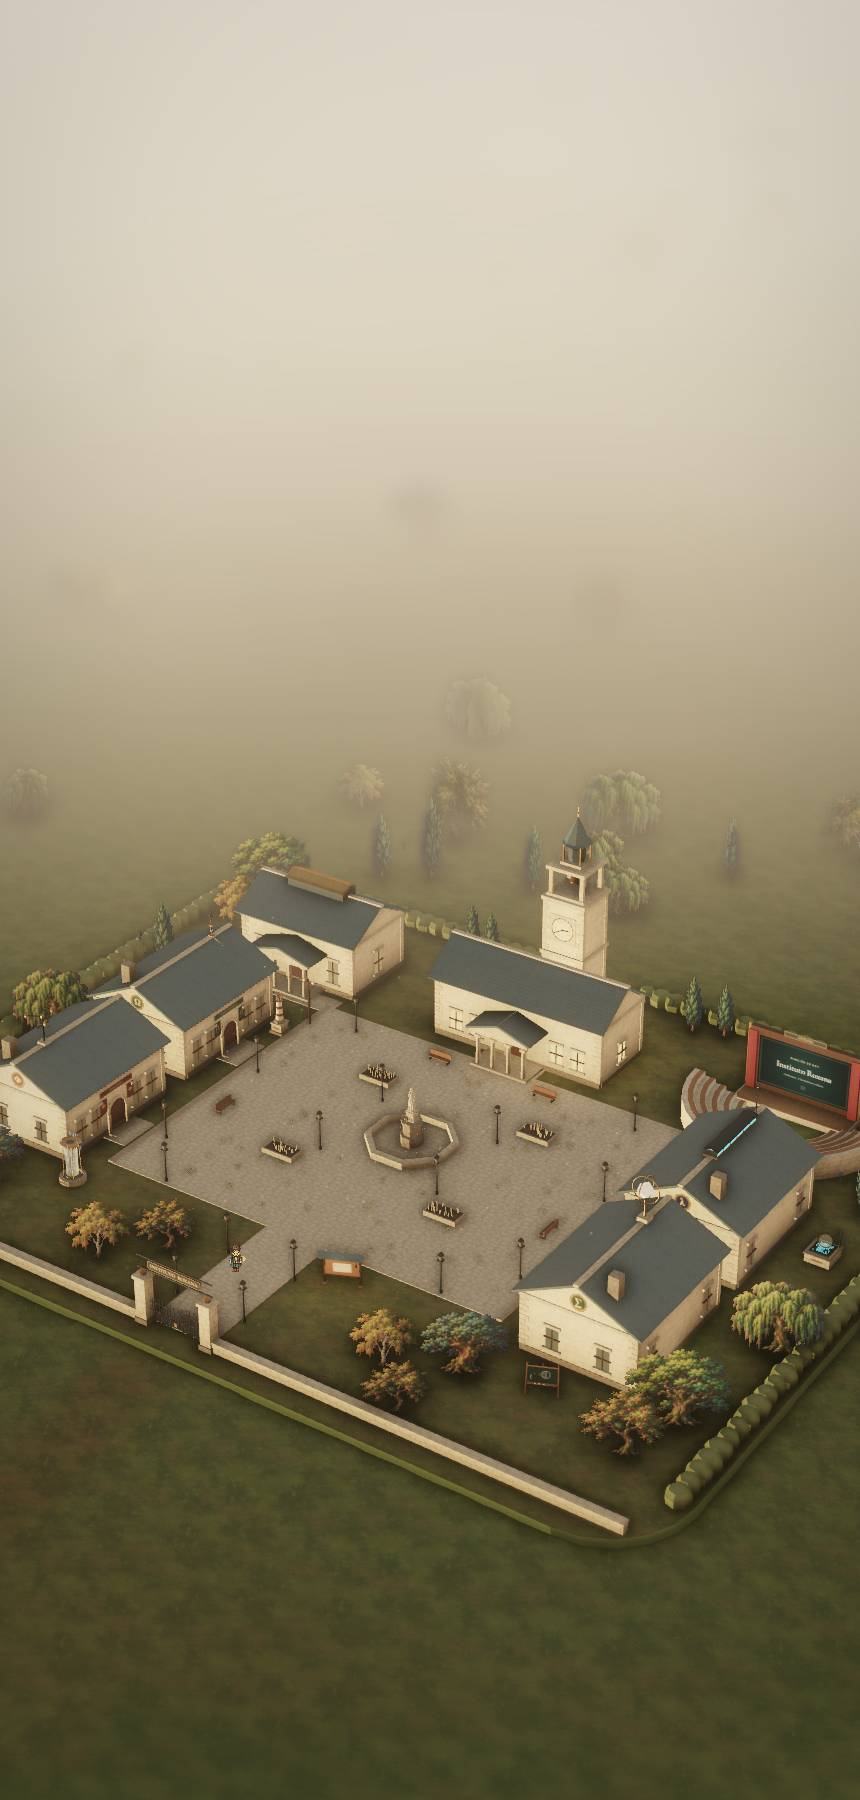
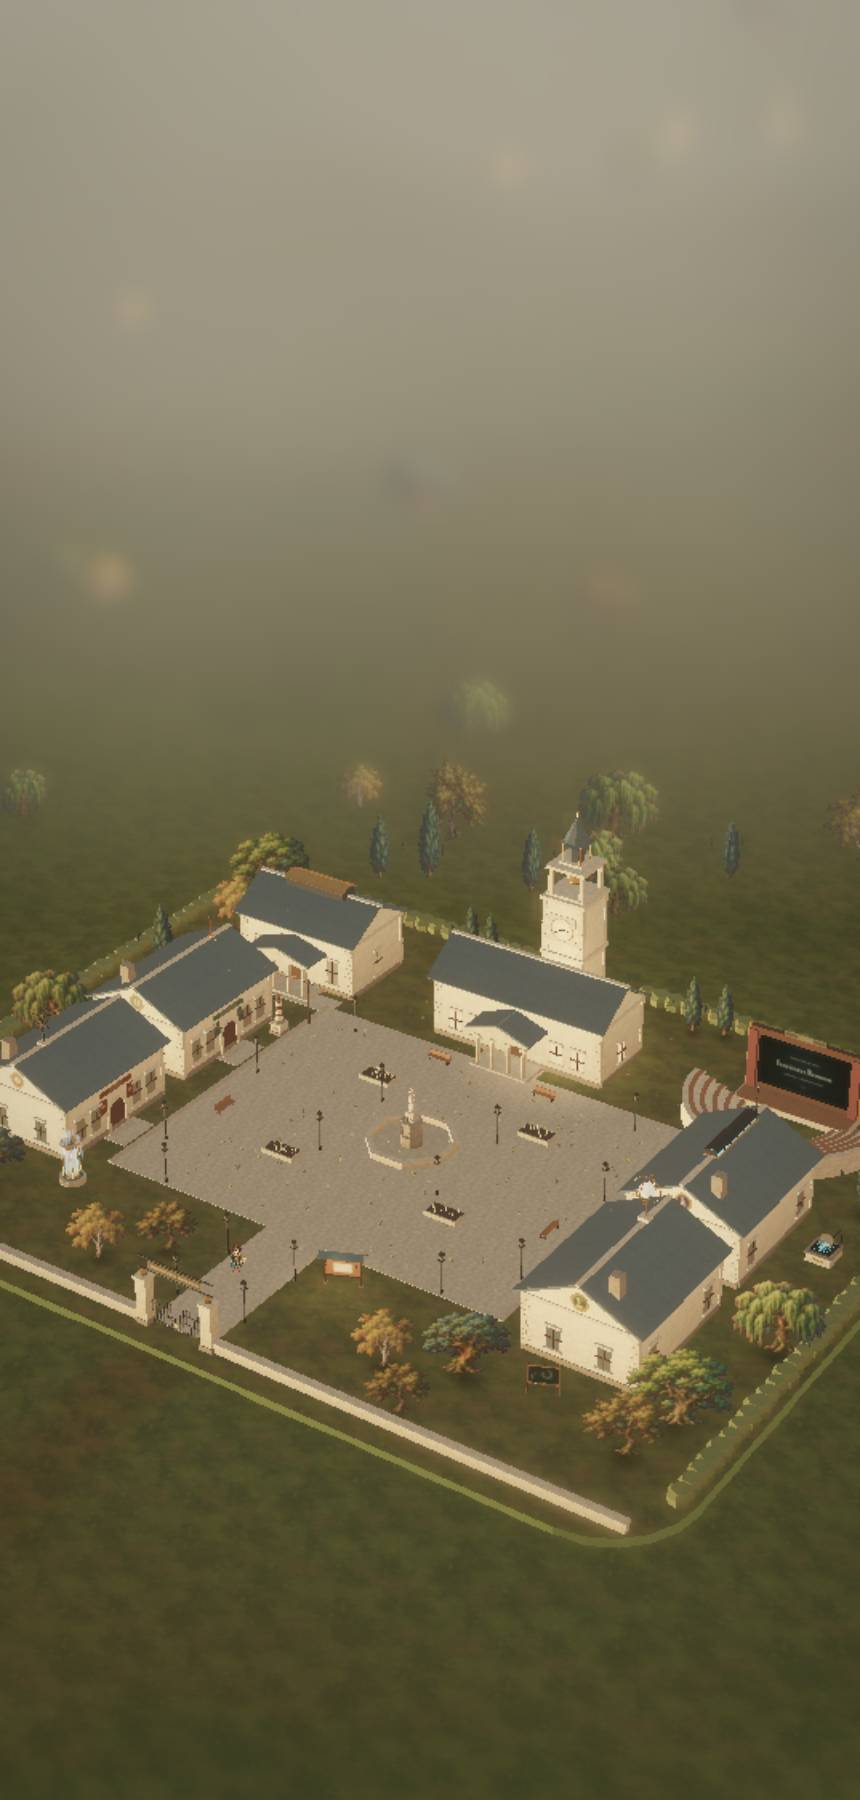
Home: jerarquía del plano maestro — Roxana como foco, Anfiteatro discreto, bruma azulada y noche legible
La estatua recibe una luz de acento; la pantalla del Anfiteatro baja a media luz fuera de su
sala; la bruma de día tira al azul y el fondo deja de ser una pared; la noche deja leer los
techos y, restaurado el patio, lo enciende. Antes/después en evidence/c09.

diff --git a/experiments/playcanvas/src/escuela/diorama.js b/experiments/playcanvas/src/escuela/diorama.js
@@ -28,7 +28,7 @@ export const HOURS={
   manana:{label:'Mañana',sun:[52,-30,'#fff1d6',1.75],ambient:'#a9b8c2',zenith:'#5f8fbf',horizon:'#d6e6ea',below:'#87a6b4',lamps:.15,windows:.1,grade:[1.02,1,1,1.01,1.02],cloud:'#ffffff',env:.85},
   tarde:{label:'Tarde',sun:[30,-58,'#ffd49a',1.9],ambient:'#a59c9e',zenith:'#5a7fae',horizon:'#f6c894',below:'#c79c80',lamps:.55,windows:.45,grade:[1.04,1.05,1,.9,1],cloud:'#fff0dc',env:.8},
   // Moonlight: enough to read roofs and paths; the lit windows still lead.
-  noche:{label:'Noche',sun:[46,40,'#a9bcff',.62],ambient:'#4a5a82',zenith:'#070d20',horizon:'#2a3a5e',below:'#10182c',lamps:1,windows:1,grade:[.85,.86,.92,1.12,.95],cloud:'#8795b8',env:.45},
+  noche:{label:'Noche',sun:[52,28,'#bccbff',1.05],ambient:'#6a7ca6',zenith:'#070d20',horizon:'#2a3a5e',below:'#10182c',lamps:1,windows:1,grade:[.85,.88,.94,1.1,1.06],cloud:'#8795b8',env:.6},
 };
 export function hourFor(date=new Date()){const h=date.getHours();return h>=7&&h<15?'manana':h>=15&&h<20?'tarde':'noche';}
 
@@ -39,7 +39,7 @@ const MATERIALS={
   slate:{map:'slate',color:'#5f737b'},roofPhysica:{map:'slate',color:'#a0624c'},roofBitland:{map:'slate',color:'#5f6c92'},roofArithmos:{map:'slate',color:'#6d8559'},
   wood:{map:'wood',color:'#a4744c'},woodDark:{map:'wood',color:'#5c3f2c'},floor:{map:'wood',color:'#b88b62'},hedge:{map:'grass',color:'#6a8a4a'},
   bronze:{map:'copper',color:'#c79c5c',metal:.8,gloss:.55},copper:{map:'copper',color:'#c47f4c',metal:.7,gloss:.5},iron:{color:'#393e43',metal:.55,gloss:.45},
-  paint:{color:'#ffffff'},curtain:{map:'wood',contrast:.25,color:'#8a2f31'},lampShade:{color:'#3f7a55',emissive:'#78d69a',glow:.15},
+  paint:{color:'#ffffff'},curtain:{map:'wood',contrast:.25,color:'#76403a'},lampShade:{color:'#3f7a55',emissive:'#78d69a',glow:.15},
   gold:{map:'copper',contrast:.2,color:'#ffd873',metal:.55,gloss:.72,emissive:'#b0801c',glow:.55},
   dim:{map:'stone',contrast:.2,color:'#8c8a86',opacity:.55},
   lampGlass:{color:'#6c6556',emissive:'#ffd08a',glow:0},lanternGlass:{color:'#57636a',emissive:'#fff0c4',glow:0,gloss:.8},
@@ -530,6 +530,8 @@ export class SchoolDiorama {
     }
   }
   buildLights(){
+    // A soft key light on Roxana's statue: the narrative anchor of the patio reads first in the overview.
+    const spot=(name,pos,at,color,range,inner,outer)=>{const e=new Entity(name);e.addComponent('light',{type:'spot',color:col(color),intensity:0,range,innerConeAngle:inner,outerConeAngle:outer,castShadows:false});e.setPosition(...pos);e.lookAt(...at);e.rotateLocal(-90,0,0);this.root.addChild(e);return e;};
     const omni=(name,pos,color,range,parent=this.root)=>{const e=new Entity(name);e.addComponent('light',{type:'omni',color:col(color),intensity:0,range,castShadows:false});e.setPosition(...pos);parent.addChild(e);return e;};
     this.lampLights=LAMPS.map(([x,z])=>omni('Farol',[x,3.7,z],'#ffcf8a',11));
     this.rooms={
@@ -539,6 +541,7 @@ export class SchoolDiorama {
       lantern:omni('Linterna',[TOWER.x,TOWER.shaft+4.5,TOWER.z],'#fff0c4',62),
       screen:omni('Pantalla',[AMPHI.x,3.5,AMPHI.z+2.5],'#a8c8d8',14),
       statue:omni('Farol de Roxana',[FOUNTAIN.x,3.3,FOUNTAIN.z+1.1],'#ffd08a',8),
+      statueKey:spot('Luz sobre Roxana',[FOUNTAIN.x+4,12,FOUNTAIN.z+8],[FOUNTAIN.x,4.6,FOUNTAIN.z],'#ffe9c4',24,10,22),
       board:omni('Luz de la cartelera',[NOTICE_BOARD.x,3.1,NOTICE_BOARD.z+1.2],'#ffd9a0',7),
       faro:omni('Faro en miniatura',[ARTIFACTS.ohmdal.x,4.1,ARTIFACTS.ohmdal.z],'#ffe7ad',5),
     };
@@ -712,7 +715,7 @@ export class SchoolDiorama {
     this.camera.lookAt(tx,ty,tz);
     const want=d;if(Math.abs(this.frame.dof.focusDistance-want)>.2){this.frame.dof.focusDistance=want;this.frame.update();}
     // Haze behind the school in the overview; close-ups keep it far so near stone is not washed out.
-    const fog=this.app.scene.fog;fog.start=Math.max(d+18,150);fog.end=Math.max(d*1.9+120,420);
+    const fog=this.app.scene.fog;fog.start=Math.max(d+40,170);fog.end=Math.max(d*2.6+260,620);
   }
 
   // ── Hour and stage ──────────────────────────────────────────────────────────
@@ -729,7 +732,8 @@ export class SchoolDiorama {
     this.paintSky(c('zenith'),c('horizon'),c('below'));
     this.cloudMaterial.emissive=c('cloud');this.cloudMaterial.update();
     // Haze toward the horizon colour turns the far hills blue and the night ones into silhouettes.
-    const night=lerp(a.lamps,b.lamps,t);this.app.scene.fog.color=mixColor(c('horizon'),col('#fff8ec'),.42*(1-clamp((night-.6)/.4,0,1)));
+    // Aerial perspective: by day the haze leans to the sky's blue so the far hills read as layers, not a wall.
+    const night=lerp(a.lamps,b.lamps,t),day=1-clamp((night-.6)/.4,0,1);this.app.scene.fog.color=mixColor(mixColor(mixColor(c('horizon'),c('zenith'),.38*day),col('#f4f2ee'),.2*day),col('#33456e'),.45*(1-day));
     this.skyColors={zenith:c('zenith'),horizon:c('horizon')};
     if(m.t>=1){this.hourMix=null;this.buildEnvironment(b);}this.stageDirty=true;
   }
@@ -783,6 +787,8 @@ export class SchoolDiorama {
     const banners=this.parts.get('banners');if(banners){banners.enabled=L(6)>.01;banners.setLocalScale(1,Math.max(.01,ease(L(6))),1);banners.setLocalPosition(0,4.85*(1-ease(L(6))),0);}
     // 8 beacon_network: the bell swings (see update). 9 beacon_lens: the lantern.
     const lantern=this.materials.lanternGlass;lantern.emissiveIntensity=L(8)*(1.6+night*3);lantern.update();
+    // The Sala de Trofeos' skylight glows with its trophies, softly: it must not burn into a white bar.
+    {const sk=this.materials['lanternGlass@trofeos'];if(sk){if(!sk.darkGlass){sk.darkGlass=true;sk.diffuse=col('#2c3439');sk.gloss=.25;sk.metalness=0;}sk.emissiveIntensity=(.02+earned/12*.08)*(.4+night*.6);sk.update();}}
     this.rooms.lantern.light.intensity=L(8)*(.6+night*1.4);// Additive blending ignores opacity: the beam's strength lives in its emissive and it is off by day.
     const beam=L(8)*clamp((night-.75)/.25,0,1)*(1-(this.focusFade||0));this.beam.m.emissiveIntensity=beam*.12;this.beam.m.update();this.beam.pivot.enabled=beam>.01;
     this.fx.lantern.particlesystem.enabled=L(8)>.5;
@@ -802,7 +808,10 @@ export class SchoolDiorama {
     const city=this.materials['city@programacion'];if(!this.entrySeq){city.emissiveIntensity=.3+night*.8;city.update();}
     const world=this.materials['world@fisica'];if(!this.entrySeq){world.emissiveIntensity=1.2+night*.9;world.update();}
     const visor=this.materials['visor@programacion'];if(!this.entrySeq){visor.emissiveIntensity=.35+night*.5;visor.update();}
-    this.materials.screen.emissiveIntensity=.55+night*.55;this.materials.screen.update();this.rooms.screen.light.intensity=.2+night*.9;
+    // The Anfiteatro's screen glows fully only when its room is open; from the overview it stays a quiet frame.
+    const screenOn=this.focusId==='anfiteatro'||this.video?1:.38;
+    this.materials.screen.emissiveIntensity=(.55+night*.55)*screenOn;this.materials.screen.update();this.rooms.screen.light.intensity=(.2+night*.9)*screenOn;
+    this.rooms.statueKey.light.intensity=(2.4+night*1.8)*(1-(this.focusFade||0)*.6);
     this.materials.lampShade.emissiveIntensity=.2+night*1.2;this.materials.lampShade.update();
     this.fx.dust.particlesystem.enabled=!this.reducedMotion&&night<.9;
     // Trophies.

diff --git a/experiments/playcanvas/src/escuela/school.js b/experiments/playcanvas/src/escuela/school.js
@@ -442,7 +442,7 @@ function trofeosDetails(k){
   k.box('trofeos:colonnade','stone',{x:b.x,z:pz+.1,w:7.2,d:3,y:3.9,h:.4,jitter:.02});
   k.gable('trofeos:colonnade','slate',{x:b.x,z:pz+.1,w:7.4,d:3,y:4.3,rise:1.1,alongZ:true,ends:'stone',overhang:.2});
   // Skylight lantern on the ridge.
-  k.box(`${id}:roof`,'lanternGlass',{x:b.x,z:b.z,w:7,d:2.2,y:b.h+b.rise-.2,h:.9,jitter:0});
+  k.box(`${id}:roof`,'lanternGlass@trofeos',{x:b.x,z:b.z,w:7,d:2.2,y:b.h+b.rise-.2,h:.9,jitter:0});
   k.gable(`${id}:roof`,'bronze',{x:b.x,z:b.z,w:7.3,d:2.5,y:b.h+b.rise+.7,rise:.6,overhang:.05,thick:.08});
   // One tiered stand per world under its banner; trophies are separate parts.
   const I='trofeos:interior',back=b.z-b.d/2+T;

diff --git a/experiments/playcanvas/src/escuela/landscape.js b/experiments/playcanvas/src/escuela/landscape.js
@@ -29,7 +29,8 @@ export function heightAt(x,z){
   // The road keeps to calmer ground so its ribbon lies flat on the land.
   const calm=z>30?1-smooth(12,3,Math.abs(x-roadX(z)))*.85:1;
   const roll=(fbm(x/70,z/70)-.45)*7*smooth(8,70,d)*calm;
-  const hills=Math.pow(fbm(x/150+11,z/150-4),1.6)*90*smooth(170,430,r)+smooth(380,700,r)*40;
+  // Hills rise behind the school within reach of the master camera, so the haze can layer them.
+  const hills=Math.pow(fbm(x/120+11,z/120-4),1.4)*70*smooth(105,300,r)+smooth(260,560,r)*55;
   return bank+roll+hills;
 }
 // Fields: large irregular plots of wheat, meadow, fallow and pasture tones.

diff --git a/docs/production/home/STATE.md b/docs/production/home/STATE.md
@@ -1,7 +1,7 @@
 # Home · Instituto Roxana — estado de producción
 
 Estado canónico del loop de la home (brief: `ROXANA_HOME_AAA_LOOP.md`, recibido el 2026-10-05).
-Estado: **EN CURSO** · ciclo 8 cerrado (2026-10-06). No es candidato todavía (ver `REVIEW-c07.md`). Loop de sesión: cron `04a38e45` cada minuto.
+Estado: **EN CURSO** · ciclo 9 cerrado (2026-10-06). No es candidato todavía (ver `REVIEW-c07.md`). Loop de sesión: cron `04a38e45` cada minuto.
 
 ## Qué es la home real
 
@@ -180,10 +180,24 @@ NO VERIFICADO: FPS absolutos con la GPU libre; bfcache real; pérdida de context
 Limitaciones: bancos e instrumentos del taller siguen siendo cajas; los otros tres interiores sin cambios; la luz de
 las lámparas colgantes es emisiva (sin luz puntual propia); FPS sin medir con la GPU libre.
 
+## Ciclo 9 (2026-10-06) — jerarquía del plano maestro (antes/después en `evidence/c09/`)
+
+- Pantalla del Anfiteatro a media luz desde la vista general (deja de ser lo más saturado del cuadro) y telón menos
+  rojo; brilla entera con la sala abierta o un video.
+- Luz de acento cálida sobre la estatua de Roxana: de noche es el foco del patio.
+- Bruma más lejana y azulada de día (perspectiva aérea): el fondo deja de ser una pared beige; árboles lejanos con
+  suelo debajo. Colinas acercadas, pero **siguen fuera del encuadre** (la cámara maestra mira hacia abajo y el
+  horizonte queda arriba del cuadro): no se forzó.
+- Noche: más luna y luz ambiente; en etapas bajas se leen las formas; en la etapa 10 los faroles restaurados
+  encienden el patio (la noche cuenta el progreso real). Lucernario de Trofeos con material propio y emisivo tenue:
+  ya no satura, pero sigue claro (parcial).
+- Imágenes del primer pintado regeneradas. QA: `npm test` 97/97; interacción 26/26; teclado 14/14.
+
 ## Siguiente acción exacta
 
-1. Plano maestro (revisión #14–16): bajar el emisivo de la pantalla del Anfiteatro en vista general, acento de luz
-   cálida sobre la estatua de Roxana, colinas visibles bajo la bruma (niebla por altura o colinas más cercanas) y
-   noche legible (rebote de ventanas, luna). Comparar antes/después en el mismo encuadre y hora.
-2. Bancos de Electrónica con instrumentos reconocibles (galvanómetro con dial, soldador, bobinas) en lugar de cajas.
-3. `webglcontextlost` → versión ligera; medir con la GPU libre.
+1. Bancos de Electrónica con instrumentos reconocibles (galvanómetro con dial, soldador, bobinas de cobre) en
+   lugar de cajas; revisar en el acercamiento de la sala abierta.
+2. `webglcontextlost` → versión ligera, con prueba (`WEBGL_lose_context`).
+3. Primer pintado coherente con la hora (imagen de noche) cuando el visitante llega de noche.
+4. Medición con la GPU libre; si no hay bloqueos críticos nuevos, segunda revisión independiente y evaluar
+   CANDIDATO_PARA_REVISION.

diff --git a/docs/production/home/REVIEW-c07.md b/docs/production/home/REVIEW-c07.md
@@ -21,7 +21,7 @@ Veredicto del revisor: **no corresponde CANDIDATO_PARA_REVISION todavía** (2 cr
 | 11 | MEDIO | Carreras: atajos durante gesto, gesto que pisa la sala elegida, farolito tardío, `focus(null)` con panel | **Corregido** (atajos en reposo y con modificadores excluidos, `openRoom` cancela gesto, farolito recalcula, recorrido respeta panel). Vista previa de entrada sin cancelación: abierto |
 | 12 | MEDIO | Foco en controles ocultos, canvas sin foco visible, tarjeta sin Escape | **Corregido**: `inert` en portada/panel, `:focus-visible` en canvas, Escape cierra la tarjeta |
 | 13 | MEDIO | Rótulos sobre el edificio equivocado | **Corregido**: pin sobre el hastial de la puerta |
-| 14–18 | MEDIO | Jerarquía del plano maestro, fondo sin colinas, noche, primer pintado por hora/etapa, acercamientos sobreexpuestos, Bitland/Faro/lucernario de Trofeos | Abiertos (arte) |
+| 14–18 | MEDIO | Jerarquía del plano maestro, fondo sin colinas, noche, primer pintado por hora/etapa, acercamientos sobreexpuestos, Bitland/Faro/lucernario de Trofeos | **Parcial (c08–c09)**: pantalla del Anfiteatro atenuada en vista general, luz de acento en la estatua, bruma azulada y colinas más cercanas (siguen fuera del encuadre: la cámara maestra no ve el horizonte), noche más legible, acercamientos con menos exposición. Abiertos: primer pintado por hora/etapa, lucernario de Trofeos todavía claro, Bitland/Faro de detalle |
 | 19 | MEDIO | Selector de etapas abierto (spoilers); promesa de entrada de Bitland | **Corregido**: selector sólo en dev o `?qa`; texto «boceto… puede cambiar» |
 | 20 | MEDIO | QA sobredeclarado | Parcial: casos no cubiertos listados como NO VERIFICADO en STATE |
 | 21 | MEDIO | Descubribilidad táctil de artefactos | Abierto |

diff --git a/docs/production/home/VISUAL-BIBLE.md b/docs/production/home/VISUAL-BIBLE.md
@@ -15,8 +15,12 @@ Fijada en el ciclo 1. No se reinventa por ciclo; se ajusta con evidencia.
 - **Paleta:** piedra `#e7dcc3`, pizarra `#5f737b`, latón `#d8bd80`, tinta UI `#10191a`. Acentos por mundo:
   Ω cian `#6fd6cf`, Φ ámbar `#f2a860`, λ violeta `#a595ff` (el cian de Bitland queda contenido en su chip),
   ∑ verde tiza `#86e0a8`.
+- **Foco narrativo:** la estatua de Roxana recibe una luz de acento cálida y suave a toda hora; la pantalla del
+  Anfiteatro queda apagada a media luz desde la vista general y brilla entera sólo con su sala abierta.
 - **Luz:** mañana con bruma blanca fría; tarde dorada (hora heroica por defecto entre 15 y 20 h); noche donde
-  dibujan las ventanas y los faroles. La bruma empieza detrás de la escuela según la distancia de cámara.
+  dibujan las ventanas y los faroles. La bruma empieza detrás de la escuela según la distancia de cámara y, de día, tira al azul del cielo
+  (perspectiva aérea). De noche: luna fría con luz suficiente para leer techos; el patio sin restaurar queda
+  oscuro y el restaurado se enciende con sus faroles (la noche cuenta el progreso).
 - **Materiales:** granos fotográficos reducidos a luminancia + color por material + color de vértice
   (suciedad baja, desgaste). Vidrio translúcido con especular atenuado; latón y cobre con brillo medio.
 - **Tipografía y señalética:** Cormorant Garamond para títulos y placas, Inter para interfaz. Placas de latón
